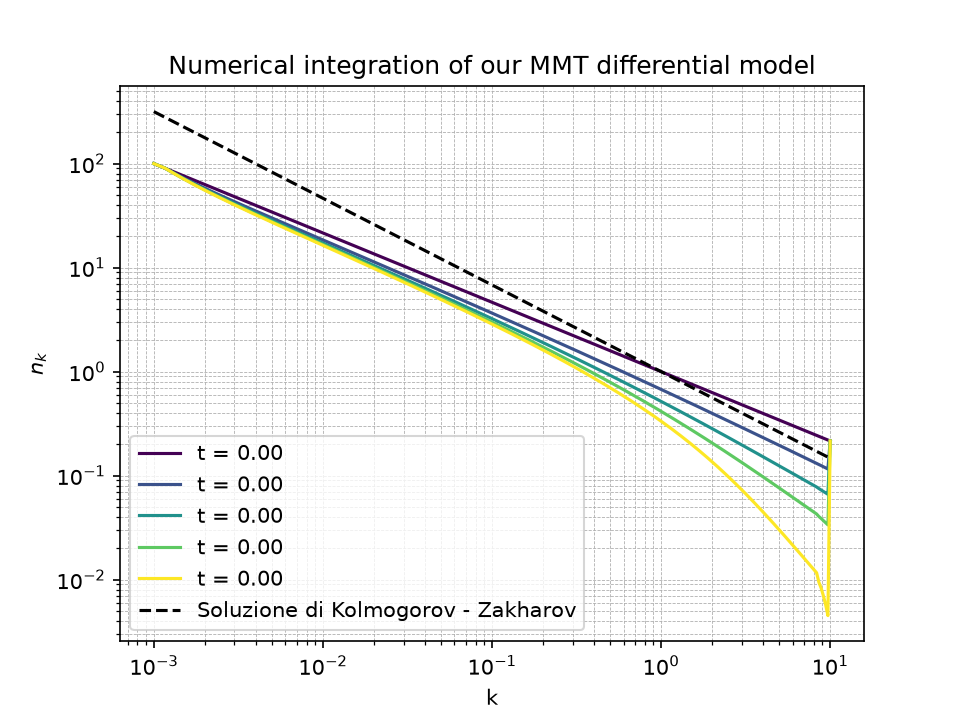
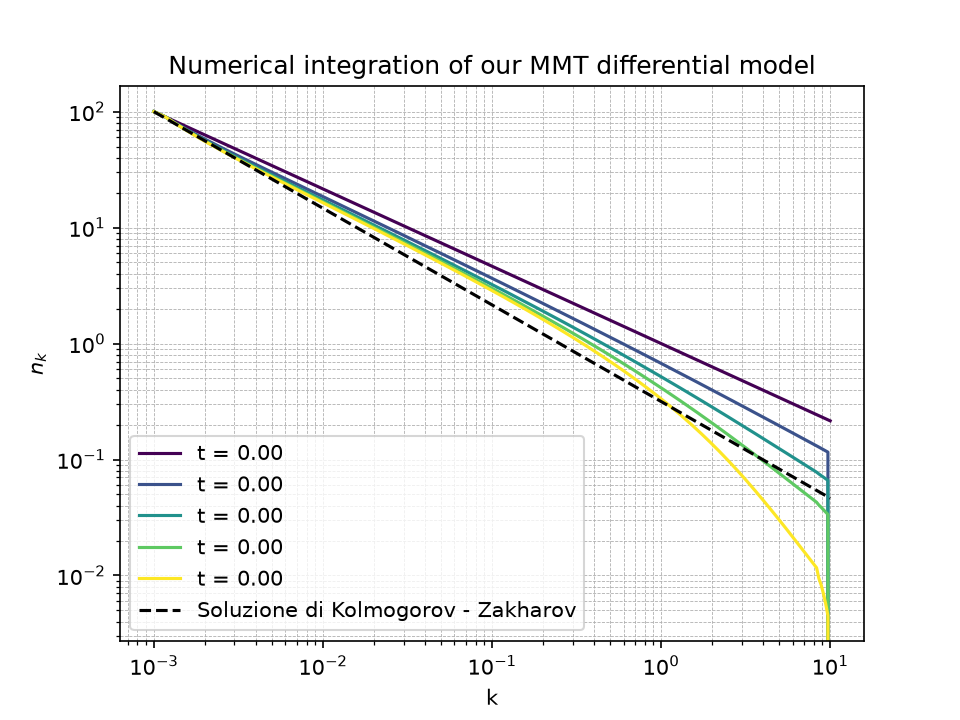
Refactor main script: update time evaluation variable for consistency; adjust final power law exponent calculation; modify output validation for integration results

Changed region(s): [[0.0625, 0.1528, 0.9062, 0.8861], [0.0625, 0.6111, 0.125, 0.6722], [0.0625, 0.7944, 0.125, 0.825]]

diff --git a/main_DAM.py b/main_DAM.py
@@ -14,19 +14,23 @@ r0 = rhs(0, n_k, k, n_left_fix, dlnk, eta1, eta2)
 print("max |rhs| iniziale:", np.max(np.abs(r0)))
 print("rhs finito ovunque:", np.all(np.isfinite(r0)))
 
-ts = np.linspace(0.0, 1.0, 100001)
+t_eval = np.linspace(0.0, 1.0, 100000)
 
-ns = solve_ivp(rhs, (0, ts[-1]), n_k, args=(k, n_left_fix, dlnk, eta1, eta2),
-                 method="BDF", t_eval=ts, rtol=1e-6, atol=1e-10)
+ns = solve_ivp(rhs, (0, t_eval[-1]), n_k, args=(k, n_left_fix, dlnk, eta1, eta2),
+                 method="BDF", t_eval=t_eval, rtol=1e-6, atol=1e-10)
 
 print("positiva ovunque:", np.all(ns.y > 0))
 print("finito ovunque:", np.all(np.isfinite(ns.y)))
 
 ln_k = np.log(k)
-p_final = np.gradient(np.log(np.maximum(ns.y[:, -1], 1e-300)), ln_k)
+p_final = np.gradient(np.log(np.maximum(ns.y[:, -1], 1e-30)), ln_k)
 p_final = np.mean(p_final[135:165])
 
-print("errore relativo sull'ultimo esponente di power law: ", np.abs(p_final - 5/6))
+print("errore relativo sull'ultimo esponente di power law: ", np.abs(p_final + 5/6))
+
+ns.t[
+    np.linspace(0, len(ns.t)-1, 5, dtype=int)
+]
 
 #ts, ns = integrate(rhs, n_k, (0.0, 0.1),  1e-6, k, n_left_fix, dlnk, eta1, eta2)
 

diff --git a/DAM.py b/DAM.py
@@ -66,7 +66,7 @@ def rhs(t, n, k, n_left_fix, dlnk , eta1, eta2):
         )
     dndt = omega_k * dndt_action - (N**3) * domega_dk * Phi
     dndt[:6] = 0.0
-    dndt[-1:] = 0.0
+    #dndt[-1:] = 0.0
 
     return dndt
 
@@ -114,7 +114,8 @@ def integrate(rhs, n0, t_span, dt, k, n_left_fix, dlnk , eta1, eta2):
 def plot_results(ts, ns, n_snap, k, save_path = None, show = True):
 
     n_snapshots = n_snap
-    n_kz = initial_condition(1.0, k, -5/6)
+    n_kz = initial_condition(1.0*k[0]**(1/6), k, -5/6)
+    
     idx = np.linspace(0, len(ts) - 1, n_snapshots).astype(int)
     colors = plt.cm.viridis(np.linspace(0, 1, n_snapshots))
 
